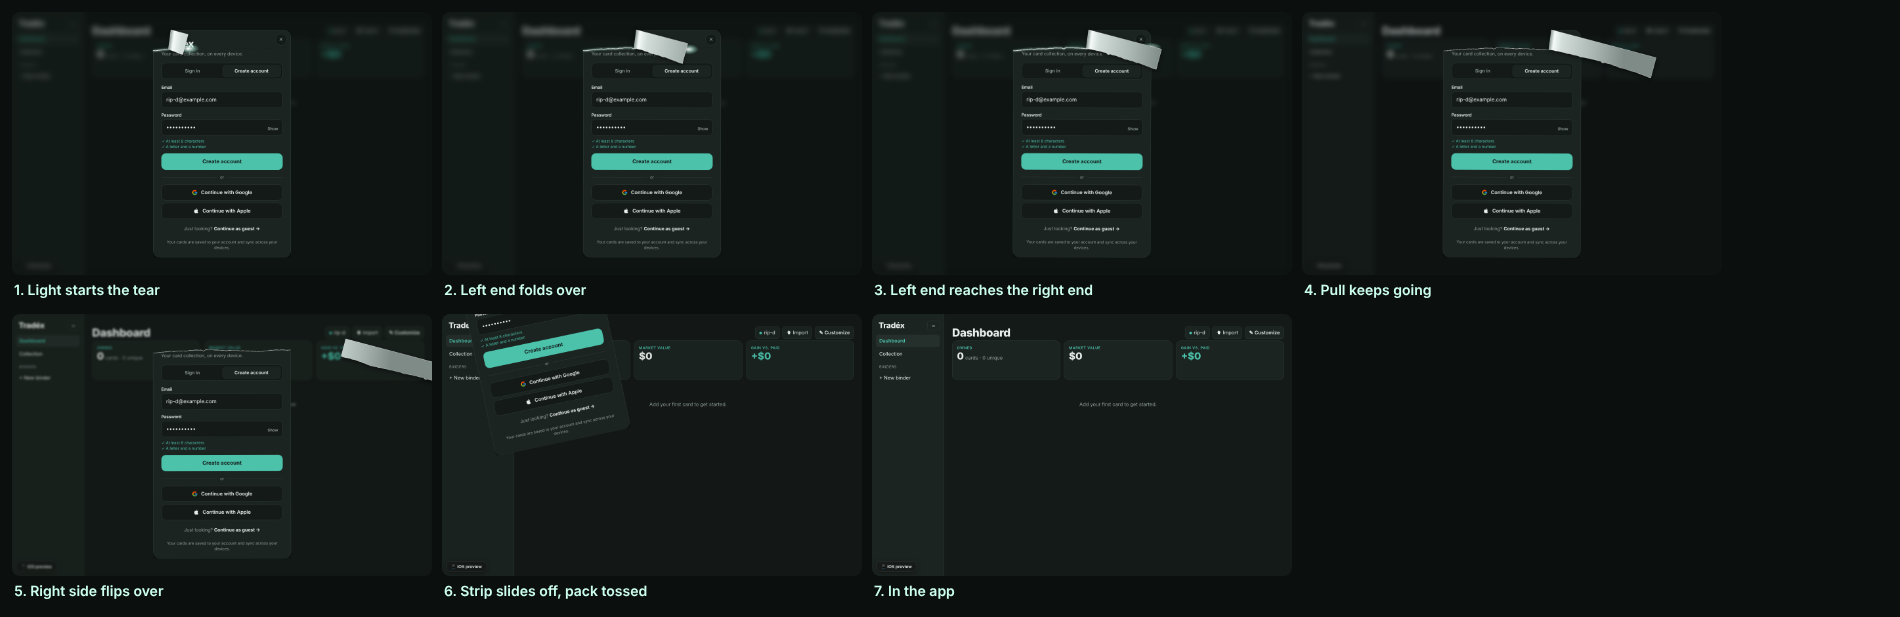
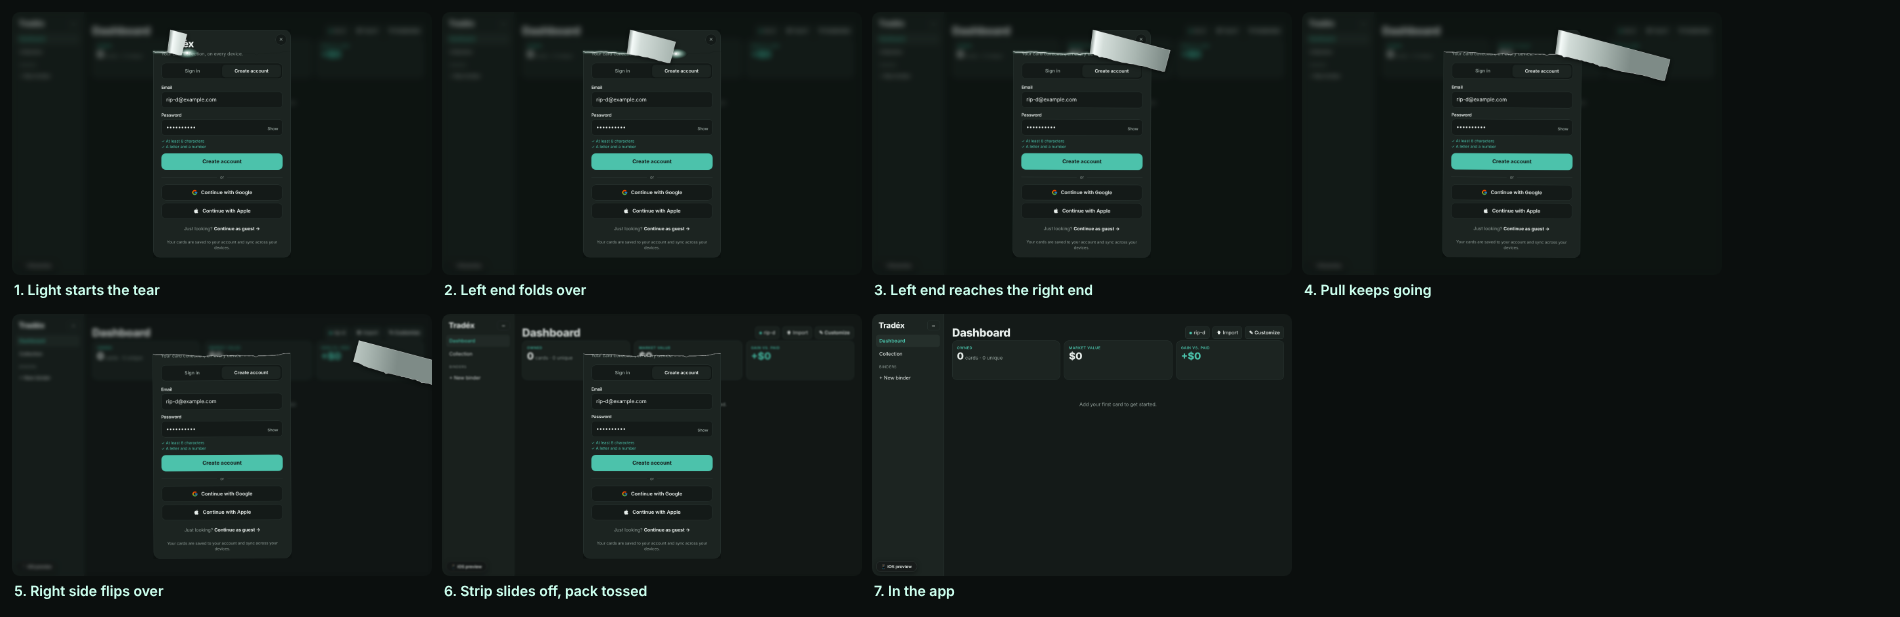
Speed up the rip another 15% (tear runs in 0.85s)
Claude-Session: https://claude.ai/code/session_01K6ofJxh6QarDQ2gKnJ83gJ

diff --git a/js/account.js b/js/account.js
@@ -249,7 +249,7 @@ function lift(rip){const g=$('#txa');if(!g||g.classList.contains('clear'))return
   v.style.cssText=`position:absolute;left:0;top:0;width:100%;height:${cut+12}px;pointer-events:none;overflow:visible`;
   v.innerHTML=`<polyline points="${pts.map(([x,y])=>x+','+y).join(' ')}" fill="none" stroke="rgba(255,255,255,.6)" stroke-width="1.6" vector-effect="non-scaling-stroke" stroke-linejoin="bevel"/>`;return v};
  const at=x=>{for(let i=1;i<pts.length;i++)if(pts[i][0]>=x){const[a,b]=[pts[i-1],pts[i]];return b[0]===a[0]?b[1]:a[1]+(b[1]-a[1])*(x-a[0])/(b[0]-a[0])}return pts[pts.length-1][1]};
- const wrap=document.createElement('div'),SW=980,W=r.width,PX=pts.map(([x,y])=>[x/100*W,y]);wrap.setAttribute('aria-hidden','true');
+ const wrap=document.createElement('div'),SW=850,W=r.width,PX=pts.map(([x,y])=>[x/100*W,y]);wrap.setAttribute('aria-hidden','true');
  Object.assign(wrap.style,{position:'fixed',left:r.left+'px',top:r.top+'px',width:W+'px',height:r.height+'px',pointerEvents:'none',zIndex:1,overflow:'visible',transformOrigin:`100% ${cut}px`});
  // The torn-off title strip stays one piece: the part not yet folded is the card itself, and the part folded over
  // is its mirror image across a slanted crease, drawn as the silver inside of the foil draping down over the right side.
